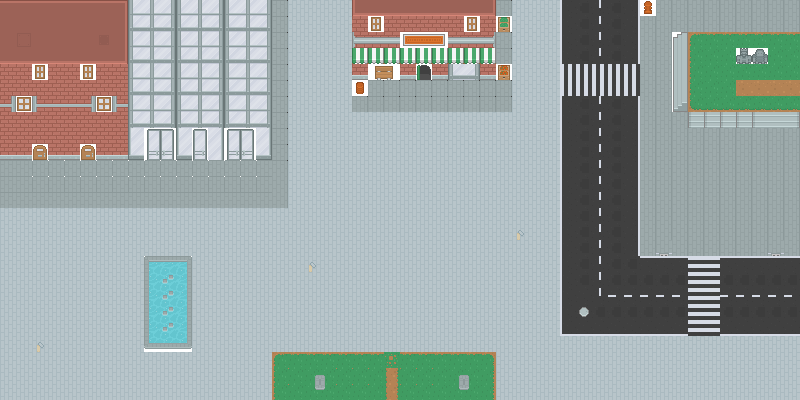
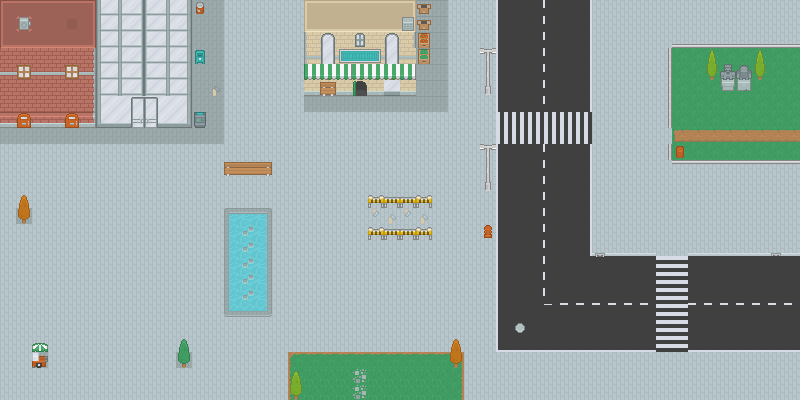
Substitute level1.png with better image (layering) edited with Tiled

diff --git a/src/main.js b/src/main.js
@@ -1,146 +1,9 @@
-
 //import Level1 from "./Level1";
-// 
-import Player from "./Player";
-
+//
+import Player from "./Player.js";
 
 const canvas = document.getElementById("game-screen");
 const ctx = canvas.getContext("2d");
-
-// Create tilesheet
-const tilesheet = new Image();
-tilesheet.src = "../assets/tilesheet.png";
-tilesheet.onload = renderLevel;
-
-// Set tilesheet and level size in pixels
-let tileSize = 16;
-let tilesheetCol = 37;
-let tilesheetRow = 28;
-let tilesheetHeight = tilesheetRow * tileSize;
-let tilesheetWidth = tilesheetCol * tileSize;
-
-let levelCols = 50;
-let levelRows = 25;
-let levelHeight = levelRows * tileSize;
-let levelWidth = levelCols * tileSize;
-
-// Convert output from tilesheet dimensions to level dimensions
-let tileOutputSize = Math.floor(levelCols/tilesheetCol);
-let updatedTileSize = tileSize * tileOutputSize;
-
-let level1 = [
-  3, 3, 3, 3, 3, 3, 3, 2, 239, 240, 241, 239, 240, 241, 239, 240, 241, 706, 748,
-  748, 748, 748, 38, 40, 40, 40, 40, 40, 40, 40, 39, 706, 748, 748, 748, 796,
-  899, 750, 899, 795, 534, 743, 743, 743, 743, 743, 743, 743, 743, 743, 7, 7, 7,
-  7, 7, 7, 7, 41, 276, 277, 278, 276, 277, 278, 276, 277, 278, 706, 748, 748,
-  748, 748, 188, 618, 188, 188, 188, 188, 188, 618, 188, 678, 748, 748, 748,
-  796, 899, 750, 899, 795, 743, 743, 743, 743, 743, 743, 743, 743, 743, 743, 7,
-  45, 7, 7, 7, 7, 44, 41, 239, 240, 241, 239, 240, 241, 239, 240, 241, 706, 748,
-  748, 748, 748, 261, 262, 262, 291, 292, 293, 262, 262, 263, 706, 748, 748,
-  748, 796, 899, 750, 899, 795, 743, 743, 390, 926, 927, 927, 927, 927, 927,
-  927, 40, 40, 40, 40, 40, 40, 40, 39, 276, 277, 278, 276, 277, 278, 276, 277,
-  278, 706, 748, 748, 748, 748, 434, 434, 434, 434, 434, 434, 434, 434, 434,
-  706, 748, 748, 748, 796, 899, 750, 899, 795, 743, 743, 427, 963, 889, 889,
-  110, 111, 889, 889, 188, 188, 618, 188, 188, 618, 188, 188, 239, 240, 241,
-  239, 240, 241, 239, 240, 241, 706, 748, 748, 748, 748, 299, 610, 611, 299,
-  988, 299, 276, 278, 299, 677, 748, 748, 748, 827, 827, 827, 827, 827, 743,
-  743, 427, 963, 889, 889, 889, 889, 889, 889, 188, 188, 188, 188, 188, 188,
-  188, 188, 276, 277, 278, 276, 277, 278, 276, 277, 278, 706, 748, 748, 748,
-  748, 144, 706, 706, 706, 706, 706, 706, 706, 706, 706, 748, 748, 748, 827,
-  827, 827, 827, 827, 743, 743, 427, 963, 889, 889, 894, 894, 894, 894, 411,
-  620, 410, 225, 225, 411, 620, 410, 239, 240, 241, 239, 240, 241, 239, 240,
-  241, 706, 748, 748, 748, 748, 706, 706, 706, 706, 706, 706, 706, 706, 706,
-  706, 748, 748, 748, 796, 899, 750, 899, 795, 743, 743, 464, 1000, 1001, 1001,
-  1001, 1001, 1001, 1001, 188, 188, 188, 188, 188, 188, 188, 188, 276, 277, 278,
-  276, 277, 278, 276, 277, 278, 706, 748, 748, 748, 748, 748, 748, 748, 748,
-  748, 748, 748, 748, 748, 748, 748, 748, 748, 796, 899, 750, 899, 795, 743,
-  743, 743, 353, 353, 353, 353, 353, 354, 355, 188, 188, 188, 188, 188, 188,
-  188, 188, 347, 912, 913, 347, 801, 349, 912, 913, 349, 706, 748, 748, 748,
-  748, 748, 748, 748, 748, 748, 748, 748, 748, 748, 748, 748, 748, 748, 796,
-  899, 750, 899, 795, 743, 743, 743, 743, 743, 743, 743, 743, 743, 743, 299,
-  299, 983, 299, 299, 983, 299, 299, 384, 949, 950, 384, 838, 349, 949, 950,
-  386, 706, 748, 748, 748, 748, 748, 748, 748, 748, 748, 748, 748, 748, 748,
-  748, 748, 748, 748, 796, 899, 750, 899, 795, 743, 743, 743, 743, 743, 743,
-  743, 743, 743, 743, 705, 705, 704, 704, 704, 704, 704, 704, 704, 704, 704,
-  704, 704, 704, 704, 704, 704, 706, 748, 748, 748, 748, 748, 748, 748, 748,
-  748, 748, 748, 748, 748, 748, 748, 748, 748, 796, 899, 750, 899, 795, 743,
-  743, 743, 743, 743, 743, 743, 743, 743, 743, 705, 705, 704, 704, 704, 704,
-  704, 704, 704, 704, 704, 704, 704, 704, 704, 704, 704, 743, 748, 748, 748,
-  748, 748, 748, 748, 748, 748, 748, 748, 748, 748, 748, 748, 748, 748, 796,
-  899, 750, 899, 795, 743, 743, 743, 743, 743, 743, 743, 743, 743, 743, 705,
-  705, 705, 705, 705, 705, 705, 705, 705, 705, 705, 705, 705, 705, 705, 705,
-  705, 743, 748, 748, 748, 748, 748, 748, 748, 748, 748, 748, 748, 748, 748,
-  748, 748, 748, 748, 796, 899, 750, 899, 795, 743, 743, 743, 743, 743, 743,
-  743, 743, 743, 743, 748, 748, 748, 748, 748, 748, 748, 748, 748, 748, 748,
-  748, 748, 748, 748, 748, 748, 748, 748, 748, 748, 748, 748, 748, 748, 748,
-  748, 748, 748, 748, 748, 748, 748, 748, 748, 796, 899, 750, 899, 795, 743,
-  743, 743, 743, 743, 743, 743, 743, 743, 743, 748, 748, 748, 748, 748, 748,
-  748, 748, 748, 748, 748, 748, 748, 748, 748, 748, 748, 748, 748, 748, 748,
-  748, 748, 748, 748, 748, 748, 748, 748, 748, 748, 748, 785, 748, 748, 796,
-  899, 750, 899, 795, 743, 743, 743, 743, 743, 743, 743, 743, 743, 743, 748,
-  748, 748, 748, 748, 748, 748, 748, 748, 748, 748, 748, 748, 748, 748, 748,
-  748, 748, 748, 748, 748, 748, 748, 748, 748, 748, 748, 748, 748, 748, 748,
-  748, 748, 748, 748, 796, 899, 750, 899, 795, 743, 852, 743, 743, 743, 743,
-  743, 743, 852, 743, 748, 748, 748, 748, 748, 748, 748, 748, 748, 175, 176,
-  177, 748, 748, 748, 748, 748, 748, 748, 785, 748, 748, 748, 748, 748, 748,
-  748, 748, 748, 748, 748, 748, 748, 748, 748, 796, 899, 750, 899, 899, 833,
-  833, 833, 824, 824, 833, 833, 833, 833, 833, 748, 748, 748, 748, 748, 748,
-  748, 748, 748, 212, 213, 214, 748, 748, 748, 748, 748, 748, 748, 748, 748,
-  748, 748, 748, 748, 748, 748, 748, 748, 748, 748, 748, 748, 748, 748, 796,
-  899, 750, 899, 899, 899, 899, 899, 824, 824, 899, 899, 899, 899, 899, 748,
-  748, 748, 748, 748, 748, 748, 748, 748, 212, 213, 214, 748, 748, 748, 748,
-  748, 748, 748, 748, 748, 748, 748, 748, 748, 748, 748, 748, 748, 748, 748,
-  748, 748, 748, 748, 796, 715, 750, 713, 713, 713, 713, 713, 824, 824, 713,
-  713, 713, 713, 713, 748, 748, 748, 748, 748, 748, 748, 748, 748, 212, 213,
-  214, 748, 748, 748, 748, 748, 748, 748, 748, 748, 748, 748, 748, 748, 748,
-  748, 748, 748, 748, 748, 748, 748, 748, 748, 796, 898, 899, 899, 899, 899,
-  899, 899, 824, 824, 899, 899, 899, 899, 899, 748, 748, 748, 748, 748, 748,
-  748, 748, 748, 212, 213, 214, 748, 748, 748, 748, 748, 748, 748, 748, 748,
-  748, 748, 748, 748, 748, 748, 748, 748, 748, 748, 748, 748, 748, 748, 830,
-  832, 832, 832, 832, 832, 832, 832, 824, 824, 832, 832, 832, 832, 832, 748,
-  748, 785, 748, 748, 748, 748, 748, 748, 249, 250, 251, 748, 748, 748, 748,
-  748, 748, 748, 748, 748, 748, 748, 748, 748, 748, 748, 748, 748, 748, 748,
-  748, 748, 748, 748, 748, 748, 748, 748, 748, 748, 748, 748, 748, 748, 748,
-  748, 748, 748, 748, 748, 748, 748, 748, 748, 748, 748, 748, 748, 748, 748,
-  748, 748, 748, 748, 748, 748, 926, 927, 927, 927, 927, 927, 927, 1019, 927,
-  927, 927, 927, 927, 928, 748, 748, 748, 748, 748, 748, 748, 748, 748, 748,
-  748, 748, 748, 748, 748, 748, 748, 748, 748, 748, 748, 748, 748, 748, 748,
-  748, 748, 748, 748, 748, 748, 748, 748, 748, 748, 748, 963, 967, 36, 37, 967,
-  967, 967, 945, 967, 967, 967, 36, 37, 965, 748, 748, 748, 748, 748, 748, 748,
-  748, 748, 748, 748, 748, 748, 748, 748, 748, 748, 748, 748, 748, 748, 748,
-  748, 748, 748, 748, 748, 748, 748, 748, 748, 748, 748, 748, 748, 748, 963,
-  967, 73, 74, 967, 967, 967, 945, 967, 967, 967, 73, 74, 965, 748, 748, 748,
-  748, 748, 748, 748, 748, 748, 748, 748, 748, 748, 748, 748, 748, 748, 748,
-  748,
-];
-
-let levelIndex = 0;
-let sourceX = 0;
-let sourceY = 0;
-function renderLevel() {
-  for (let col = 0; col < levelHeight; col += tileSize) {
-    for (let row = 0; row < levelWidth; row += tileSize) {
-      let tileVal = level1[levelIndex];
-      if (tileVal != 0) {
-        tileVal -= 1;
-        sourceY = Math.floor(tileVal / tilesheetCol) * tileSize;
-        sourceX = (tileVal % tilesheetCol) * tileSize;
-        ctx.drawImage(
-          tilesheet,
-          sourceX,
-          sourceY,
-          tileSize,
-          tileSize,
-          row * tileOutputSize,
-          col * tileOutputSize,
-          updatedTileSize,
-          updatedTileSize
-        );
-      }
-      levelIndex++;
-    }
-  }
-}
 
 // Create player character
 const player = new Player(

diff --git a/index.html b/index.html
@@ -11,7 +11,7 @@
     <main>
       <!-- #game-intro -->
       <div id="game-intro">
-        <img src="" alt="" class="logo" />
+        <img src="./assets/logo.png" alt="" class="logo" />
         <br />
         <button id="start-button">Start Game</button>
         <p>
@@ -27,15 +27,15 @@
 
       <!-- #game-end is initially hidden using CSS style display: none -->
       <div id="game-end">
-        <img src="./images/logo.png" alt="" class="logo-img" />
+        <img src="./assets/logo.png" alt="" class="logo-img" />
         <h1>Game Over</h1>
         <br />
         <button id="restart-button">Restart</button>
       </div>
     </main>
     <!-- <script type="module" src="./src/level1.js"></script> -->
-    <script type="module" src="./src/main.js"></script>
     <script type="module" src="./src/Player.js"></script>
     <script type="module" src="./src/Character.js"></script>
+    <script type="module" src="./src/main.js"></script>
   </body>
 </html>

diff --git a/styles/style.css b/styles/style.css
@@ -18,18 +18,11 @@ body {
   position: relative;
 }
 
+/* Canvas element */
 #game-screen {
-  width: 800px;
-  height: 600px;
-
-  /* display: none;
-    align-content: center;
-    padding: 20px 0px;
-    overflow: hidden;
-    position: relative;
-    background-image: url(../images/road.png);
-    background-size: cover;
-    animation: slide 5s linear infinite; */
+  width: 592px;
+  height: 448px;
+  display: inline-block;
 }
 
 #impassable {

diff --git a/src/player.js b/src/player.js
@@ -1,4 +1,4 @@
-import Character from "./Character";
+import Character from "./Character.js";
 
 export class Player extends Character {
     constructor(imageSrc, posX, posY, speed) {
@@ -6,3 +6,5 @@ export class Player extends Character {
     }
 
 }
+
+export default Player;

diff --git a/src/character.js b/src/character.js
@@ -31,4 +31,4 @@ export class Character {
     }
   }
   
-  //export default Character;
+  export default Character;
